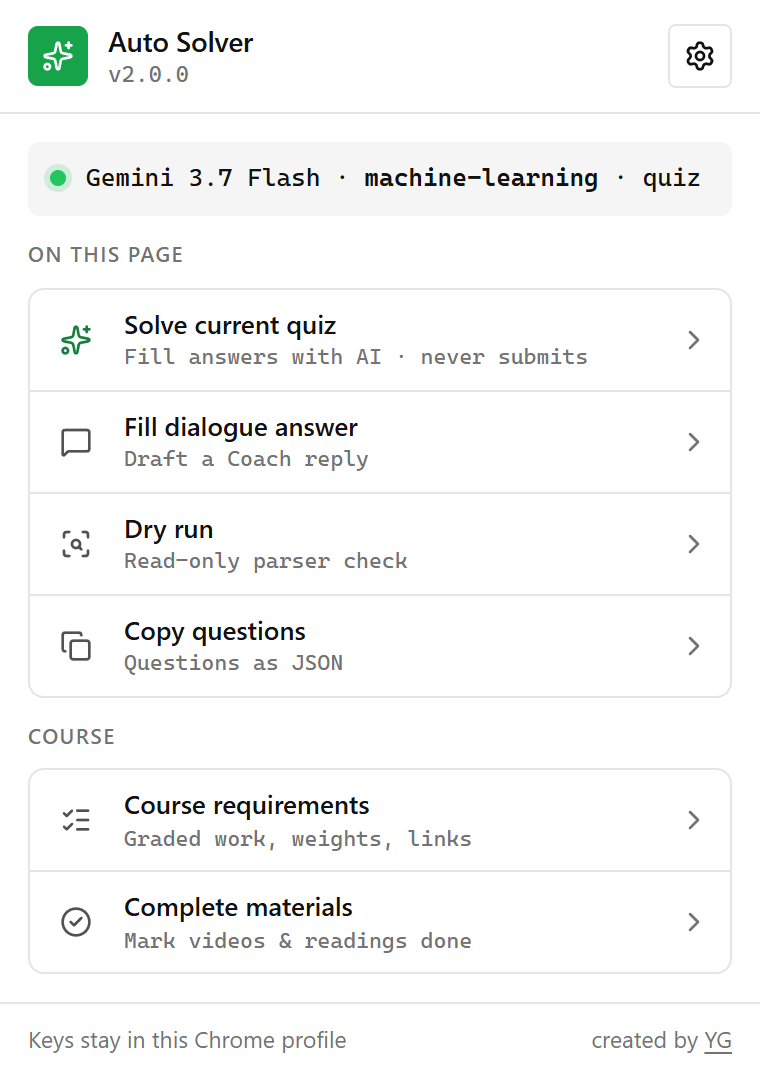
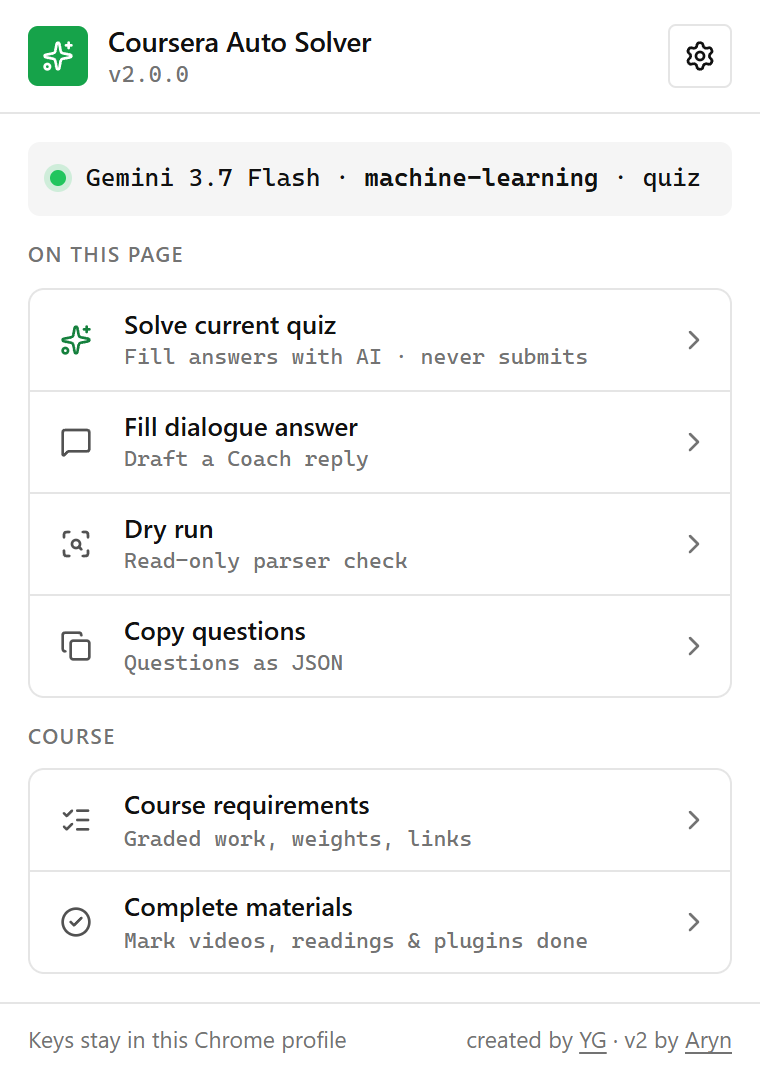
feat: show the full extension name and credit v2 by aryn
Drop the youtube demo link from the readme and retake the popup screenshot.

Changed region(s): [[0.3632, 0.8587, 0.7868, 0.8894], [0.6053, 0.9507, 0.9684, 0.9814], [0.1211, 0.0307, 0.4842, 0.0613]]

diff --git a/tests/unit/popup/settings.test.tsx b/tests/unit/popup/settings.test.tsx
@@ -120,7 +120,7 @@ describe("provider settings", () => {
     expect(back.disabled).toBe(true);
     expect(save.disabled).toBe(true);
 
-    await screen.findByRole("heading", { name: "Auto Solver" }, { timeout: 2000 });
+    await screen.findByRole("heading", { name: "Coursera Auto Solver" }, { timeout: 2000 });
     await user.click(screen.getByRole("button", { name: "AI provider settings" }));
     await screen.findByRole("heading", { name: "AI provider" });
     await sleep(1000);
@@ -355,7 +355,7 @@ describe("provider settings", () => {
       });
       renderPopup();
 
-      await screen.findByRole("heading", { name: "Auto Solver" });
+      await screen.findByRole("heading", { name: "Coursera Auto Solver" });
       expect(screen.getByText(/Qwen\/Qwen3-8B/)).toBeTruthy();
     });
   });

diff --git a/src/popup/components/PopupHeader.tsx b/src/popup/components/PopupHeader.tsx
@@ -12,7 +12,7 @@ export function PopupHeader({ onOpenSettings }: { onOpenSettings: () => void }) 
         <Sparkles className="size-4" aria-hidden />
       </div>
       <div>
-        <h1 className={TITLE_CLASS}>Auto Solver</h1>
+        <h1 className={TITLE_CLASS}>Coursera Auto Solver</h1>
         <p className="font-mono text-[11.5px] leading-tight text-muted-foreground">
           v{browser.runtime.getManifest().version}
         </p>

diff --git a/src/popup/components/Footer.tsx b/src/popup/components/Footer.tsx
@@ -12,6 +12,15 @@ export function Footer() {
         >
           YG
         </a>
+        {" · v2 by "}
+        <a
+          href="https://github.com/arynyklas"
+          target="_blank"
+          rel="noreferrer"
+          className="underline underline-offset-2"
+        >
+          Aryn
+        </a>
       </span>
     </footer>
   );

diff --git a/README.md b/README.md
@@ -15,8 +15,6 @@
 
 ![Coursera Auto Solver UI](assets/image.png)
 
-🎬 **[Watch the Demo on YouTube](https://www.youtube.com/watch?v=a060UX8dlHE)**
-
 A sleek, lightweight Chrome Extension to automate and help you navigate your Coursera courses with ease. Version 2 is a TypeScript + React rewrite built with [WXT](https://wxt.dev).
 
 The extension never submits anything for you. Quiz answers are filled in for you to review and submit yourself, and dialogue replies are placed in the message box without being sent.
@@ -187,4 +185,4 @@ See [docs/ARCHITECTURE.md](docs/ARCHITECTURE.md) for the runtimes, source layout
 
 ***
 
-Created by [YG](https://github.com/Youssef-Ghafir)
+Created by [YG](https://github.com/Youssef-Ghafir) · v2 by [Aryn](https://github.com/arynyklas)
